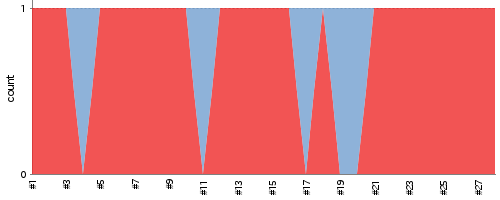
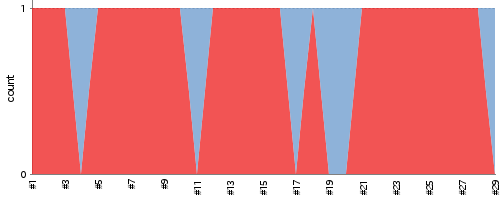
update report

diff --git a/index.md b/index.md
@@ -2,7 +2,7 @@
 layout: default
 ---
 # Jenkins CI report For HRG
-## Build and test report (2015/07/04 20:28:27)
+## Build and test report (2015/07/04 21:29:02)
 ### Build Status
 ___
 ![Build Status](http://jenkinshrg.github.io/images/badge.svg)
@@ -25,18 +25,19 @@ ___
 ___
 * Status
   
-![Jenkins Icon](http://jenkinshrg.github.io/images/48x48/yellow.png)
-UNSTABLE
+![Jenkins Icon](http://jenkinshrg.github.io/images/48x48/blue.png)
+SUCCESS
   
 * Stability
   
-![Jenkins Icon](http://jenkinshrg.github.io/images/48x48/health-00to19.png)
-17%
+![Jenkins Icon](http://jenkinshrg.github.io/images/48x48/health-20to39.png)
+20%
   
 * Latest Results
   
 |Status|Time|Duration|Changes|Build|Test|Note|
 |---|---|---|---|---|---|---|
+|![Jenkins Icon](http://jenkinshrg.github.io/images/24x24/blue.png)SUCCESS|2015/07/04 21:00|28 min.|[CHANGES](https://drive.google.com/file/d/0B54sHwaxmuM4UkdEZ2Z2MnpCRzQ/view?usp=drivesdk) |[BUILD](https://drive.google.com/file/d/0B54sHwaxmuM4SWhNZU83NWUtM2c/view?usp=drivesdk) |[CONSOLE](https://drive.google.com/file/d/0B54sHwaxmuM4ZTlfMEhaall3Tmc/view?usp=drivesdk) [IMAGE](https://drive.google.com/file/d/0B54sHwaxmuM4X1BCWFpUV2ZseEk/edit?usp=drivesdk) [VIDEO](https://drive.google.com/file/d/0B54sHwaxmuM4WnZlSHBaXzI0Mzg/edit?usp=drivesdk) | |
 |![Jenkins Icon](http://jenkinshrg.github.io/images/24x24/yellow.png)UNSTABLE|2015/07/04 20:00|28 min.||[BUILD](https://drive.google.com/file/d/0B54sHwaxmuM4QVY3b1l2dk15ems/view?usp=drivesdk) |[CONSOLE](https://drive.google.com/file/d/0B54sHwaxmuM4QXJyVWx5SHRJNlk/view?usp=drivesdk) [IMAGE](https://drive.google.com/file/d/0B54sHwaxmuM4b1R5QnRxQ1Vfdmc/edit?usp=drivesdk) [VIDEO](https://drive.google.com/file/d/0B54sHwaxmuM4S0VBNXctaXh2Ymc/edit?usp=drivesdk) |STOP NORMAL|
 |![Jenkins Icon](http://jenkinshrg.github.io/images/24x24/yellow.png)UNSTABLE|2015/07/04 19:00|28 min.||[BUILD](https://drive.google.com/file/d/0B54sHwaxmuM4S3V2V3B5dTJ5eVU/view?usp=drivesdk) |[CONSOLE](https://drive.google.com/file/d/0B54sHwaxmuM4V0pmbk5xNnk1ZkE/view?usp=drivesdk) [IMAGE](https://drive.google.com/file/d/0B54sHwaxmuM4bkdwU1dhOGN1bWM/edit?usp=drivesdk) [VIDEO](https://drive.google.com/file/d/0B54sHwaxmuM4VE9aNXdjMmdnSms/edit?usp=drivesdk) |STOP NORMAL|
 |![Jenkins Icon](http://jenkinshrg.github.io/images/24x24/yellow.png)UNSTABLE|2015/07/04 18:00|28 min.||[BUILD](https://drive.google.com/file/d/0B54sHwaxmuM4a2VwT1NCNmtmOVE/view?usp=drivesdk) |[CONSOLE](https://drive.google.com/file/d/0B54sHwaxmuM4NmN5QXNqZlZOZGc/view?usp=drivesdk) [IMAGE](https://drive.google.com/file/d/0B54sHwaxmuM4ekpRcGdTR3FWTGM/edit?usp=drivesdk) [VIDEO](https://drive.google.com/file/d/0B54sHwaxmuM4cWdwU0tZd3pndGs/edit?usp=drivesdk) |STOP NORMAL|
